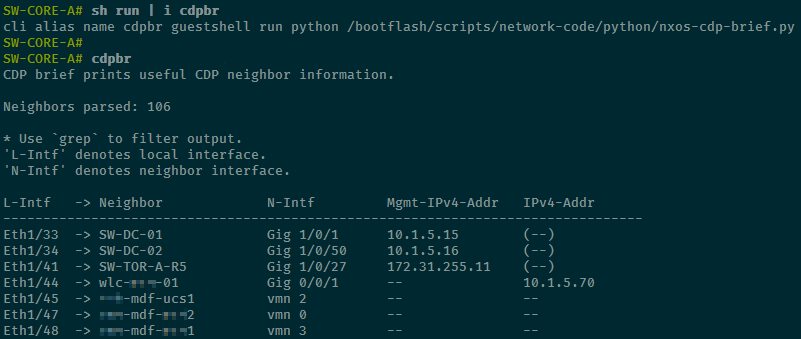
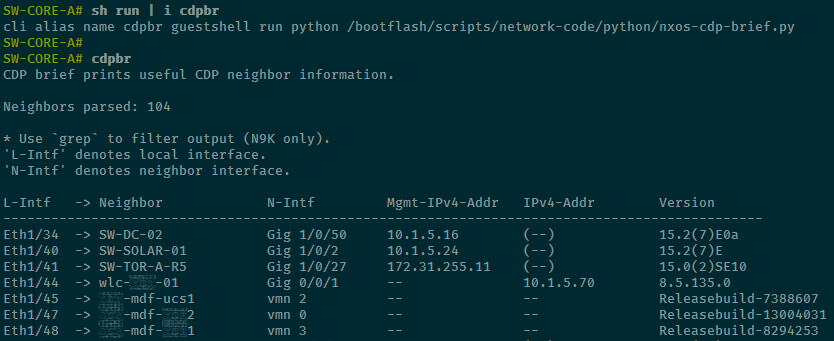
update readme and screenshot for 'version'

diff --git a/python/readme.md b/python/readme.md
@@ -4,7 +4,9 @@
 
 Script to run *on* an NX-OS device to print a custom CDP neighbor brief table. 
 One line is printed per CDP neighbor, containing the following information; 
-**Local interface**, **Neighbor hostname**, **interface**, and **IP address** (mgmt preferred).
+**Local interface**, **Neighbor hostname**, **interface**, **IP address** (mgmt preferred), and **version***.
+
+> * **Version** may have some regex parsing issues, has only been validated against most Cisco equipment and some ESXi builds.
 
 ![cdp-brief-screenshot](../assets/nxos-cdp-brief.png)
 
